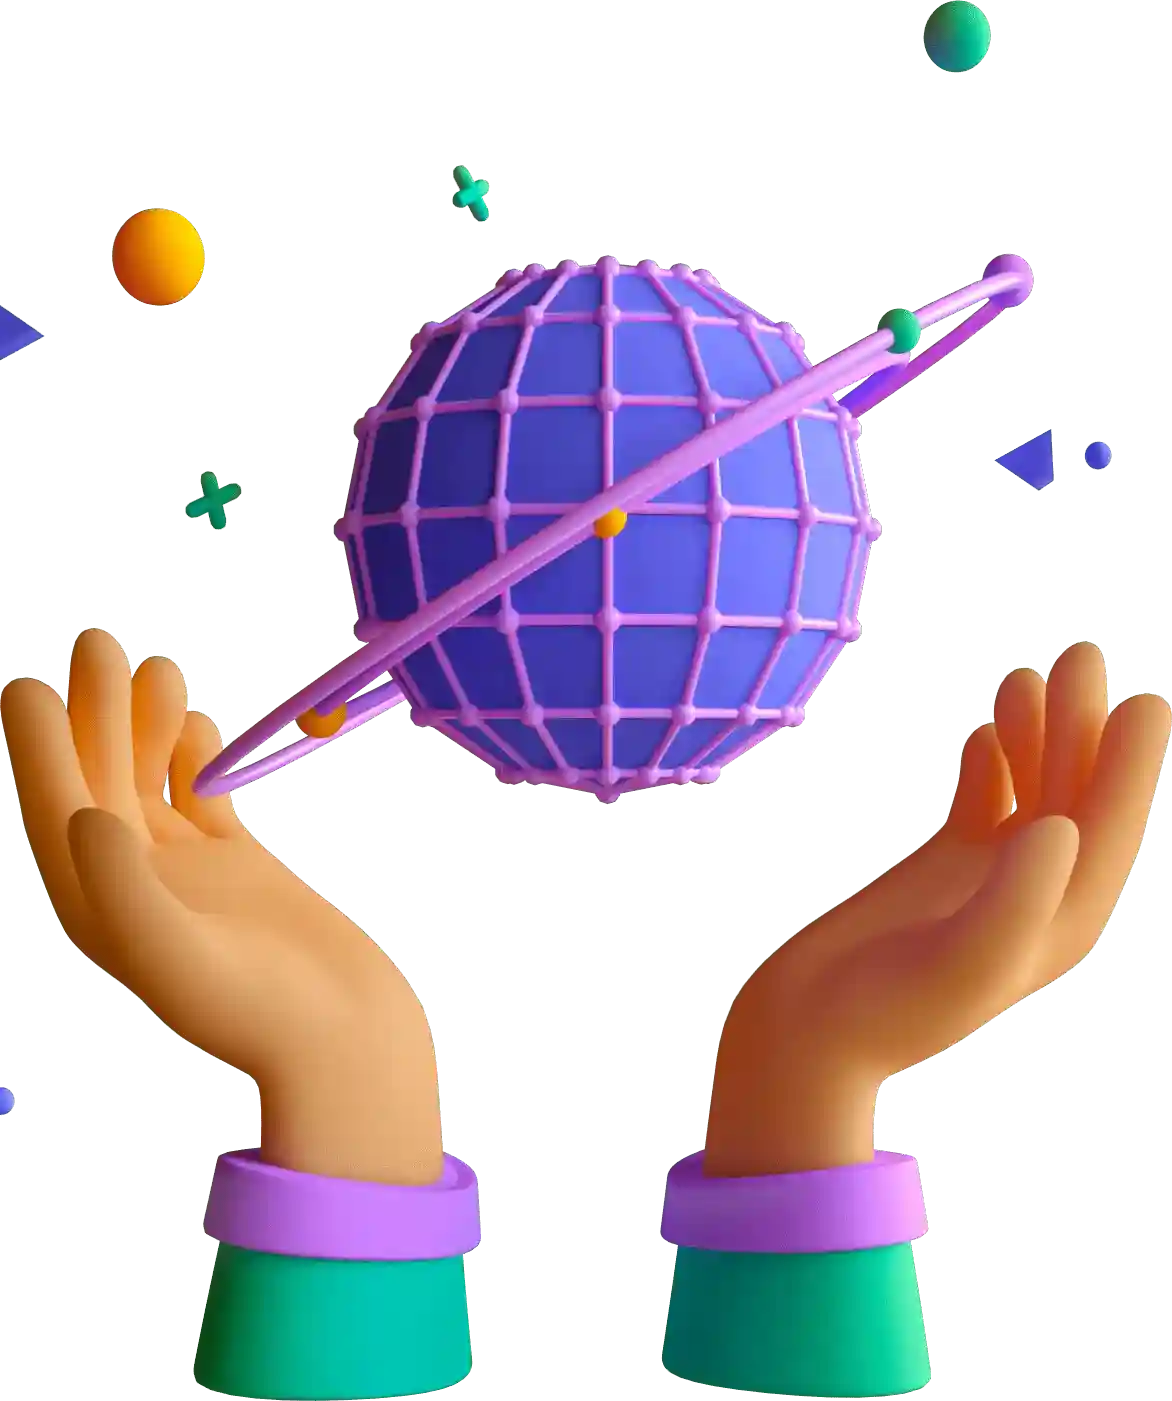
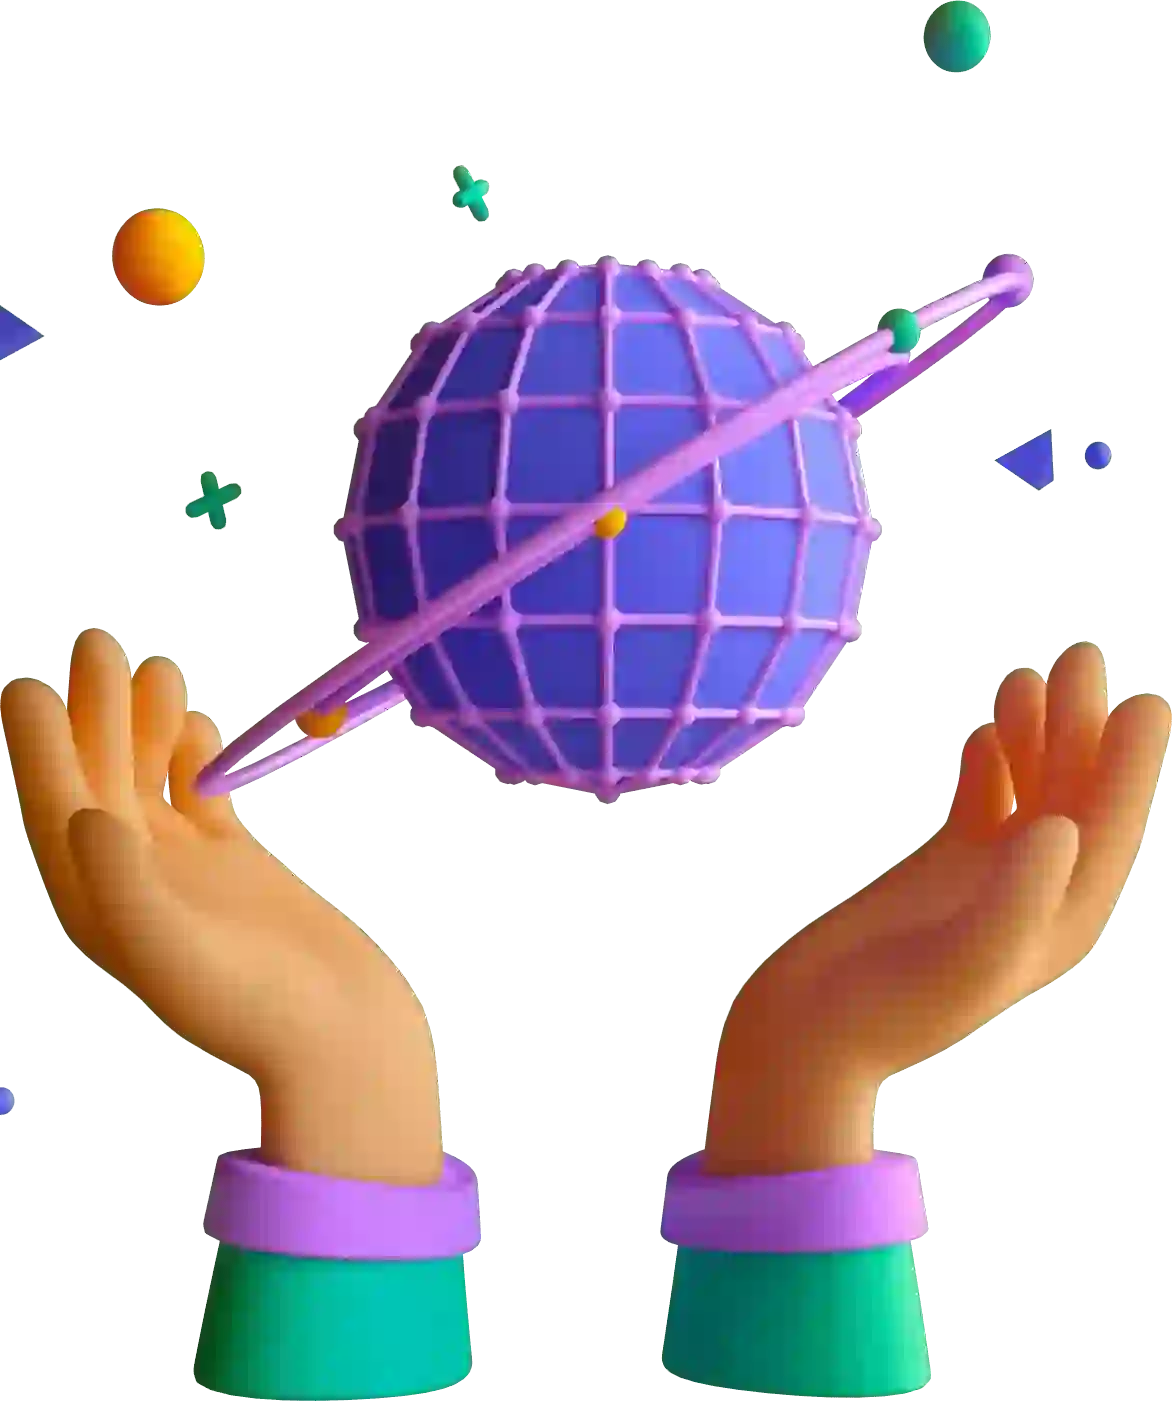
Compressed files

diff --git a/components/Profile/profile.jsx b/components/Profile/profile.jsx
@@ -23,7 +23,7 @@ const Profile = () => {
               </div>
 
           <Image
-            src="/Graphic-Decentralized-Box-p-800.png"
+            src="/Graphic-Decentralized-Box-p-800.webp"
             width={800}
             height={509}
             alt="Prueba"
@@ -31,7 +31,7 @@ const Profile = () => {
           ></Image>
 
           <Image
-            src="/Graphic-Decentralized-Base-p-800.png"
+            src="/Graphic-Decentralized-Base-p-800.webp"
             width={800}
             height={509}
             alt="Prueba"
@@ -39,7 +39,7 @@ const Profile = () => {
           ></Image>
 
           <Image
-            src="/Graphic-Decentralized-Orbitals-p-800.png"
+            src="/Graphic-Decentralized-Orbitals-p-800.webp"
             width={800}
             height={509}
             alt="Prueba"
